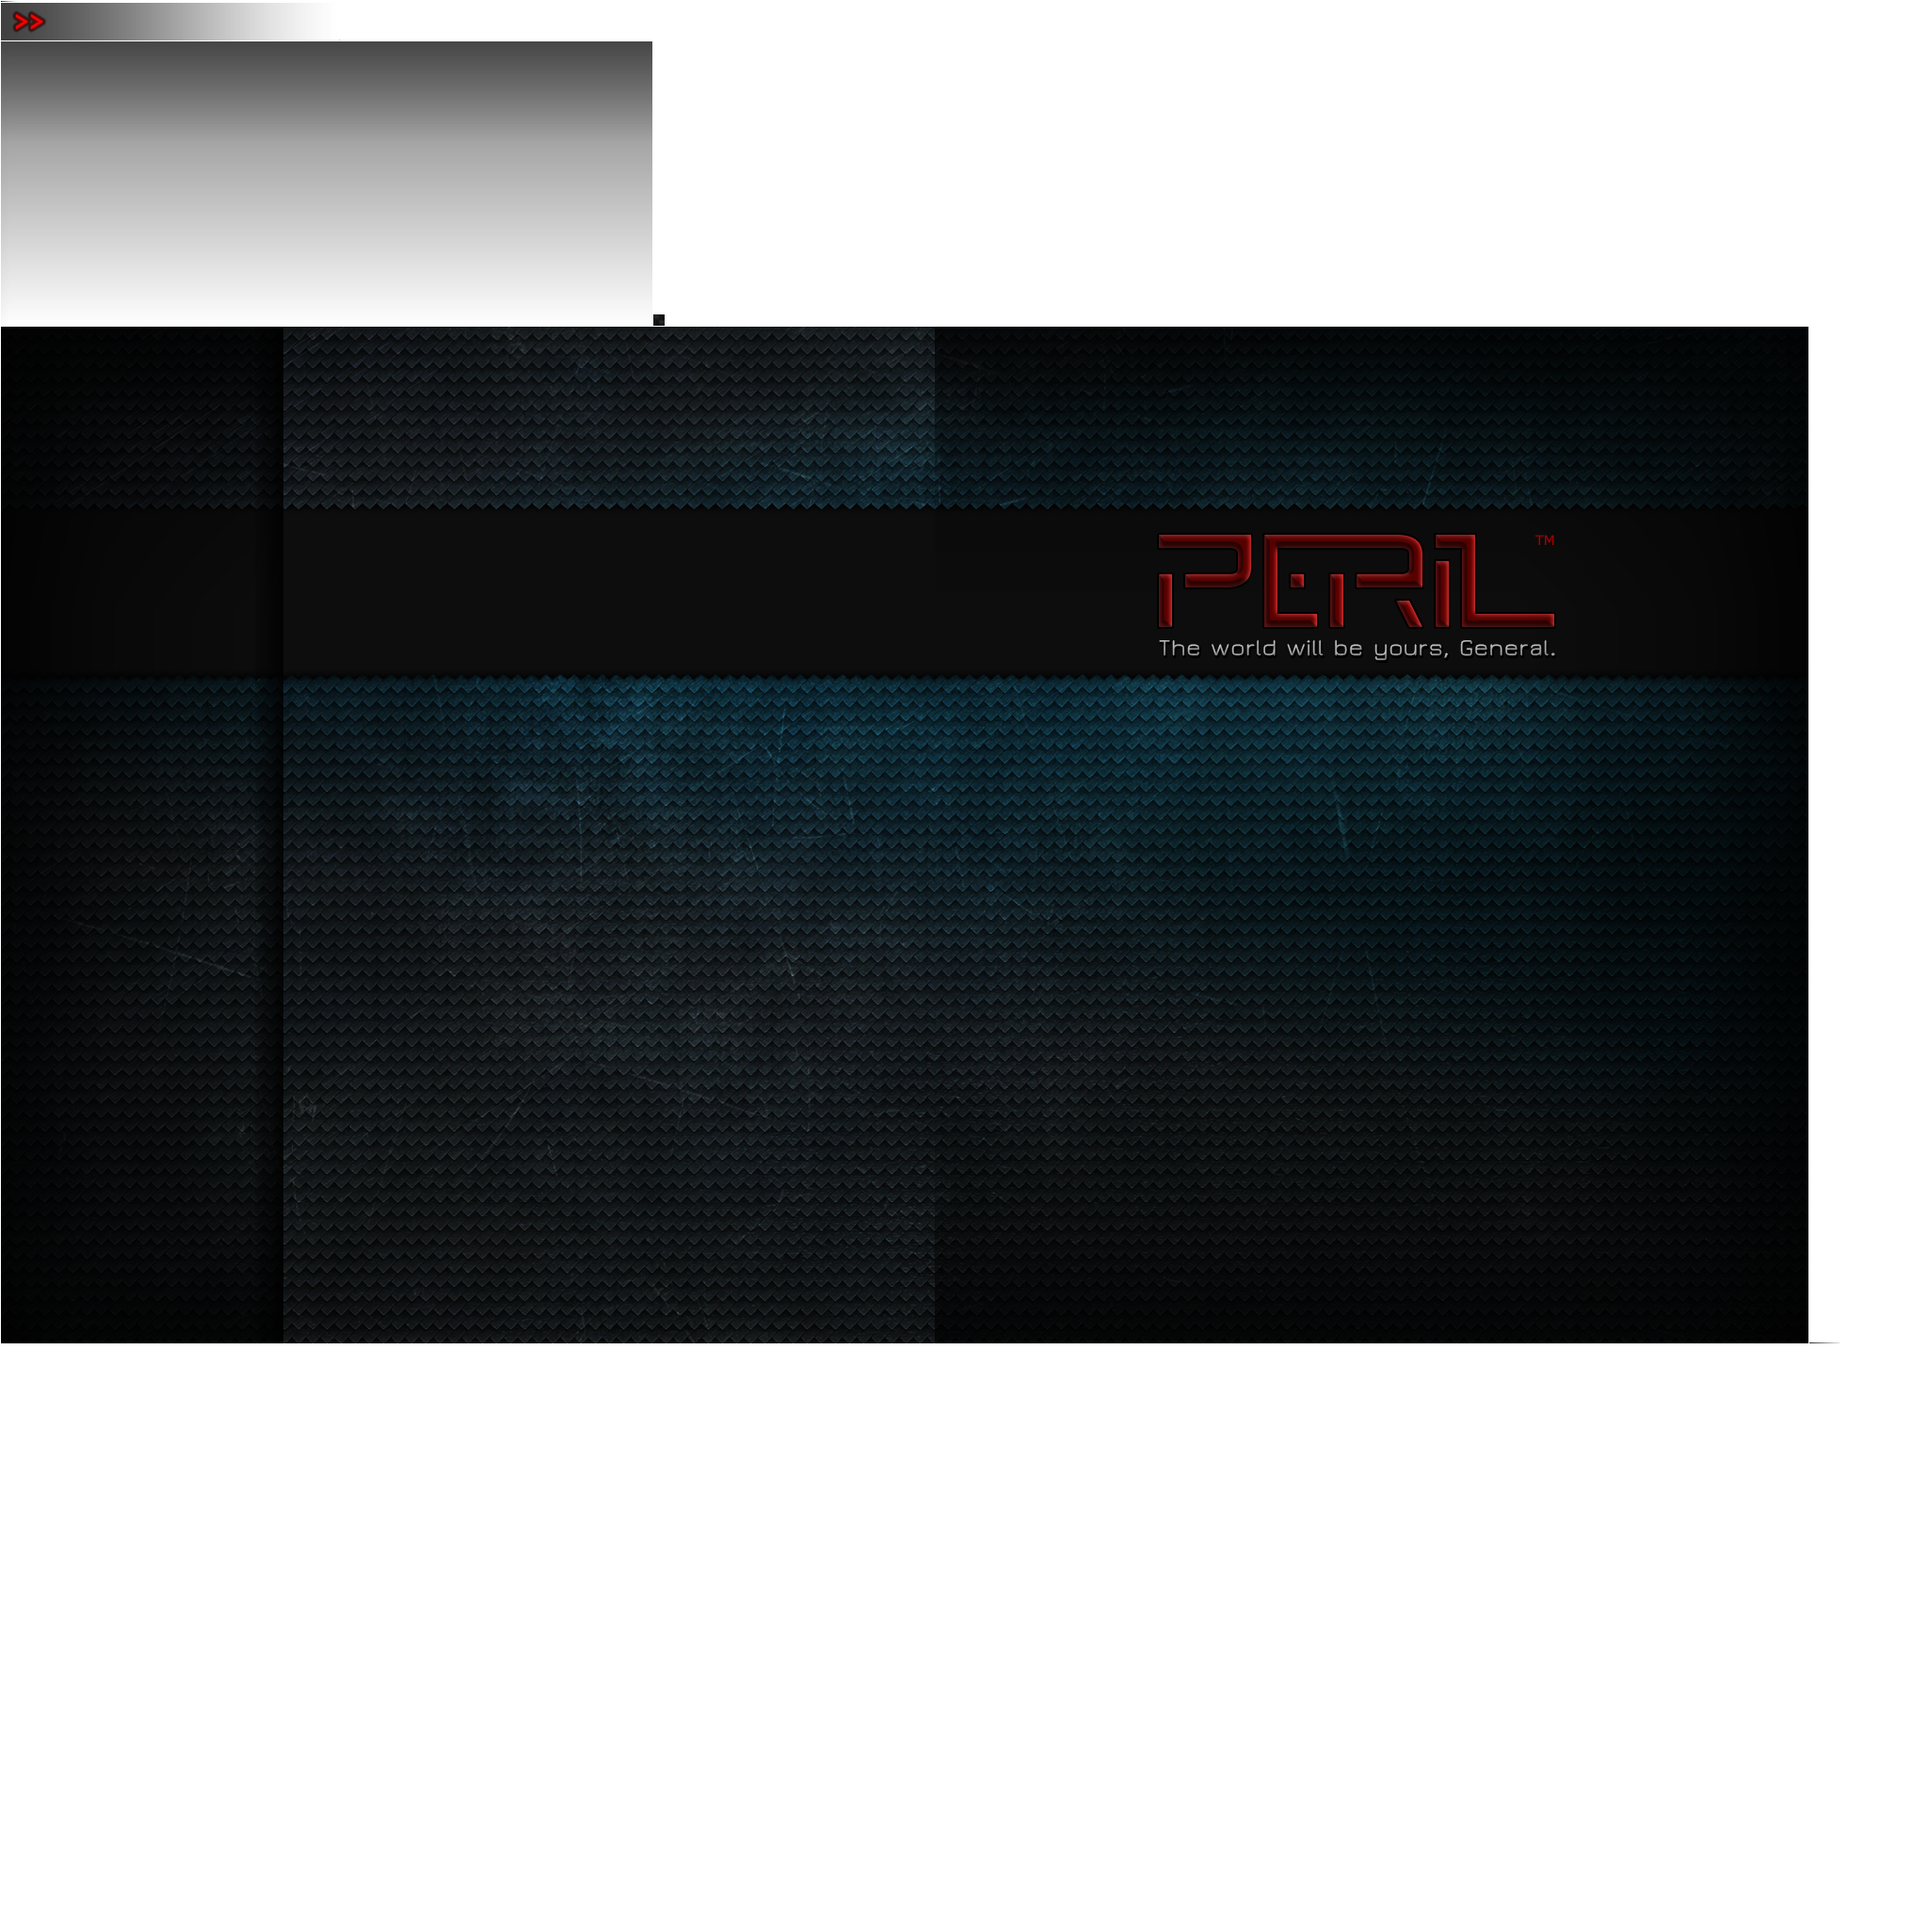
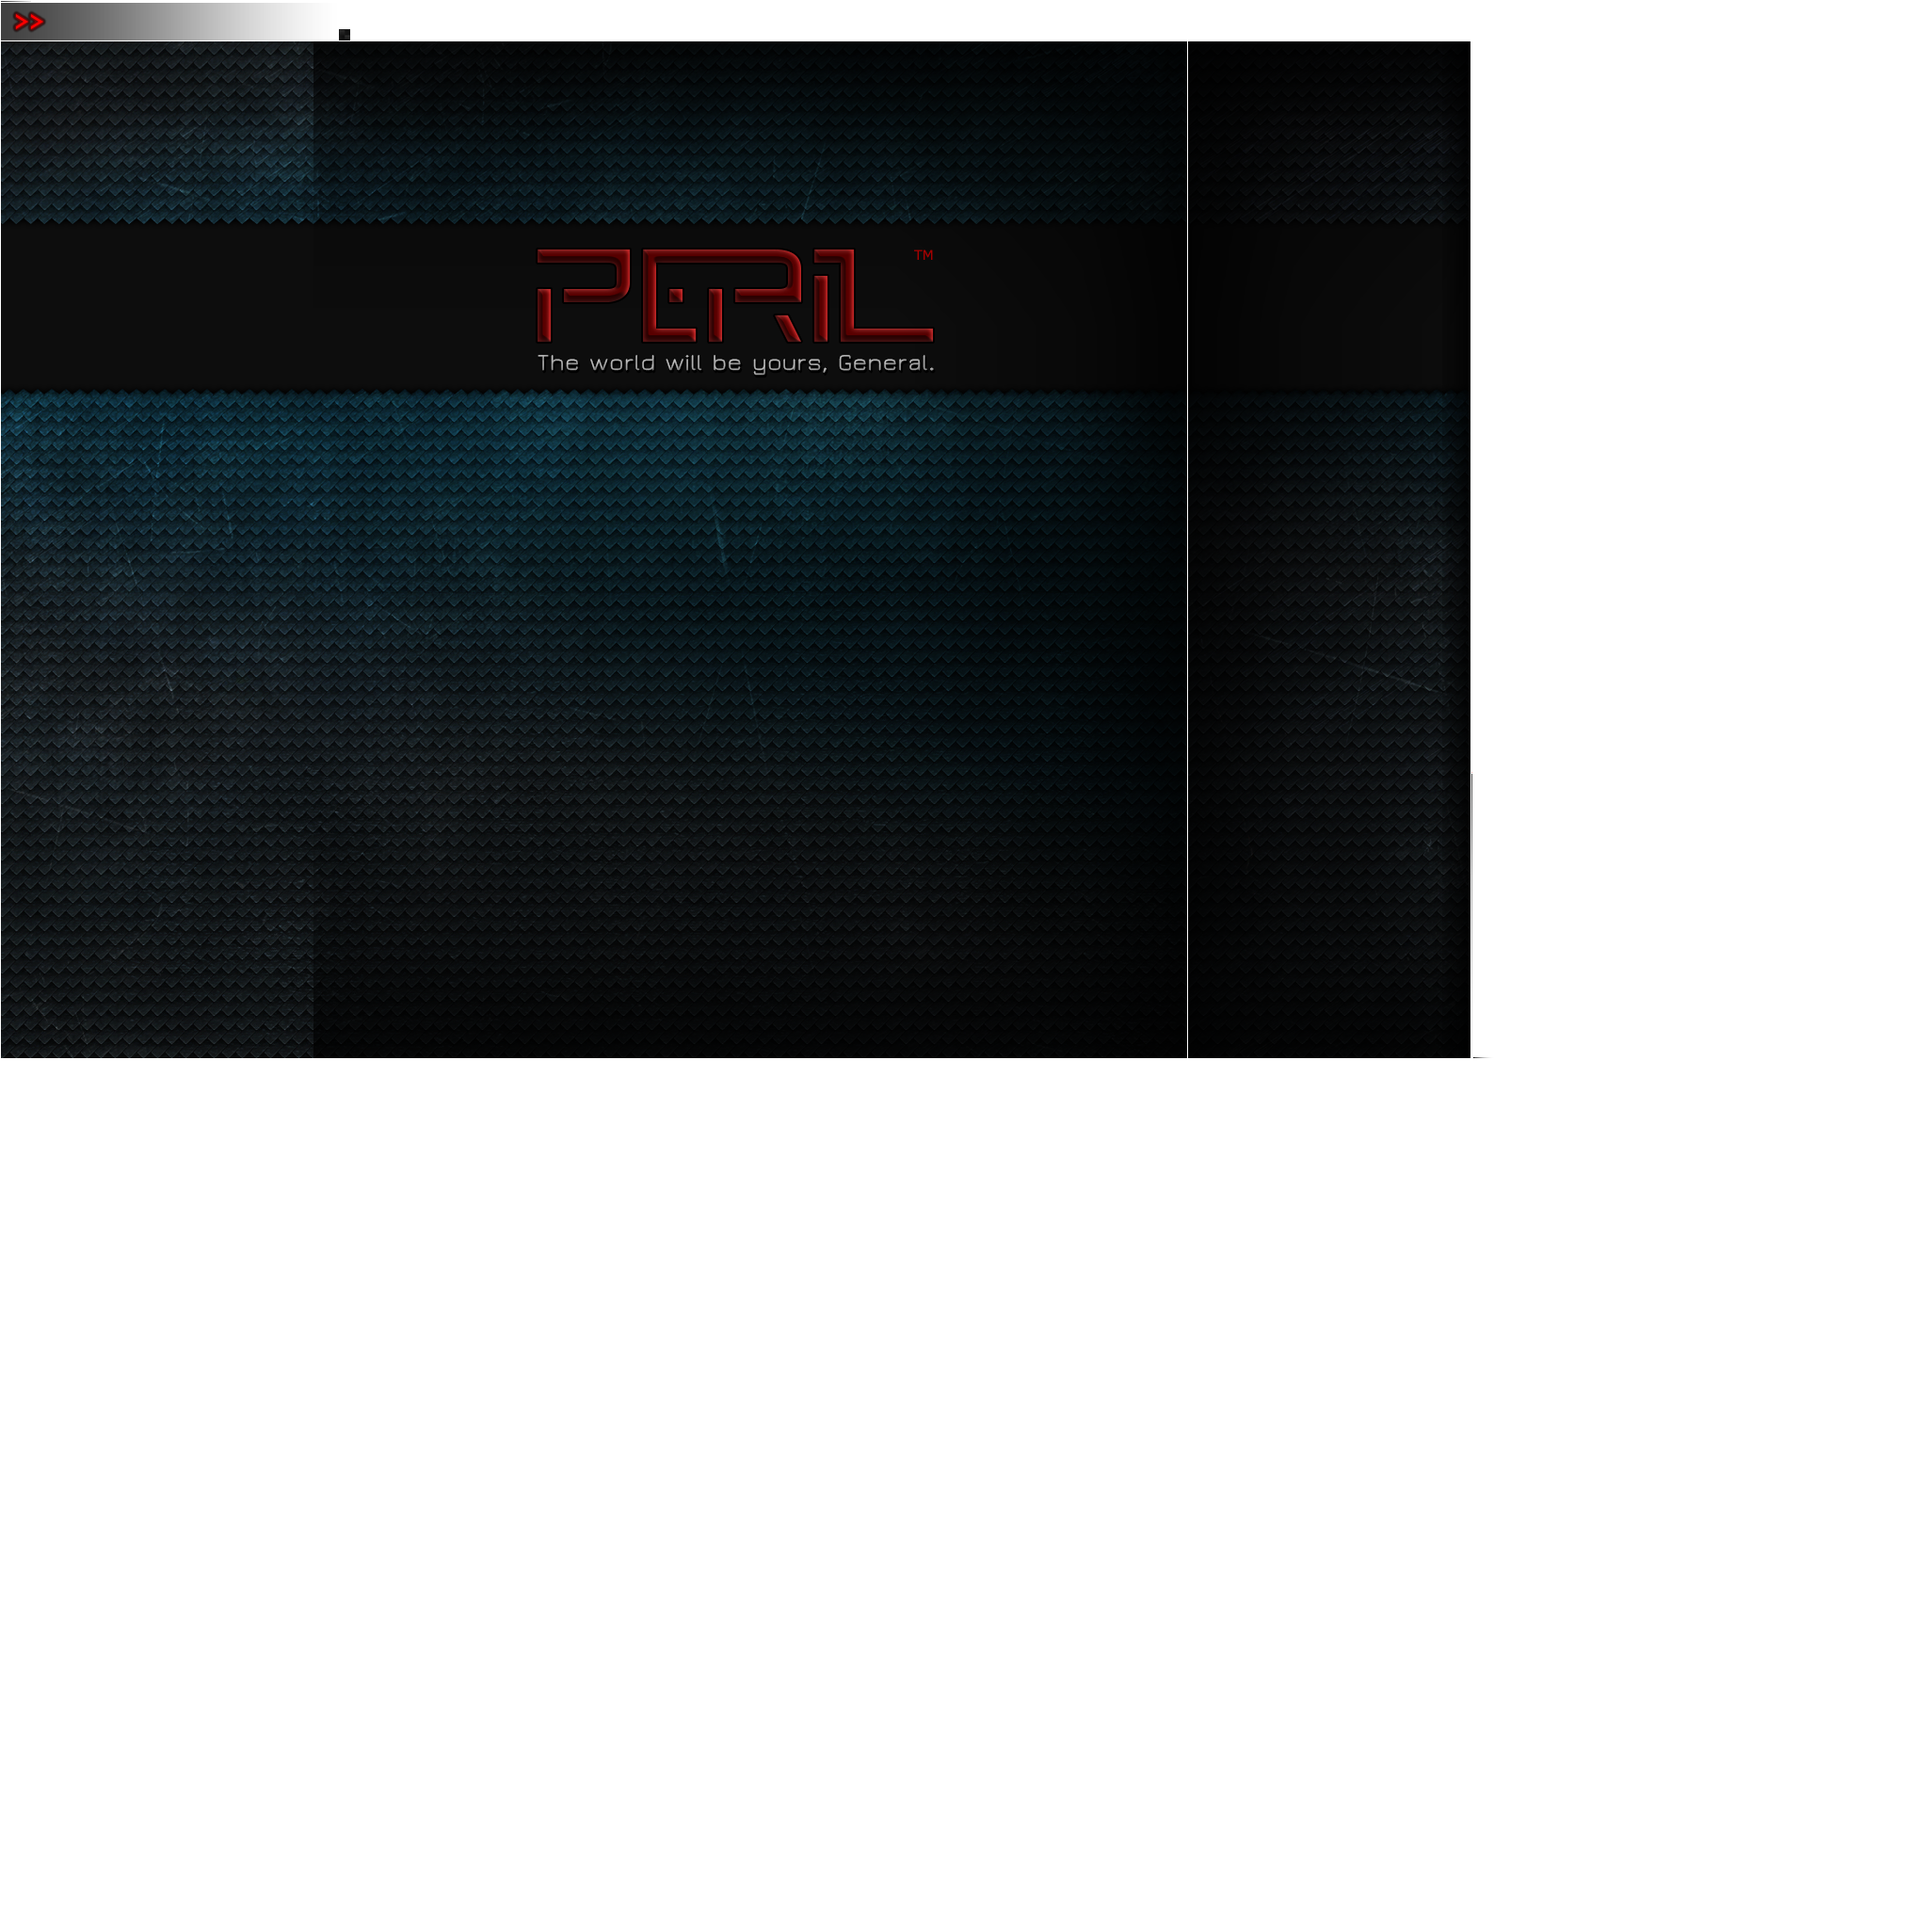
Update menu atlases.
Problem:

- The contracted menu bar is being drawn on top of the background image,
  wasting space in the atlas for the portion of the background image
  that is never drawn because it is perpetually underneath both the
  contracted & expanded menu bar images.

Solution:

- Split the menu background image into 2 sections, backgroundLeft &
  backgroundRight.

- Draw the contracted menu bar in between backgroundLeft &
  backgroundRight, and draw the expanded portion of the expanded menu
  bar on top of backgroundRight.

- Split the menu background image into backgroundLeft and backgroundRight.

- Make the topAndBottomShadow image 1 pixel wide and repeat it to save
  atlas space.

diff --git a/client/src/main/java/com/forerunnergames/peril/client/ui/screens/menus/AbstractMenuScreen.java b/client/src/main/java/com/forerunnergames/peril/client/ui/screens/menus/AbstractMenuScreen.java
@@ -85,7 +85,11 @@ public abstract class AbstractMenuScreen extends InputAdapter implements Screen
     // Layer 0 - screen background
     final Stack rootStack = new Stack ();
     rootStack.setFillParent (true);
-    rootStack.add (widgetFactory.createScreenBackground ());
+    final Table tableL0 = new Table ().top ().left ();
+    tableL0.add (widgetFactory.createScreenBackgroundLeft ());
+    tableL0.add ().expandX ();
+    tableL0.add (widgetFactory.createScreenBackgroundRight ());
+    rootStack.add (tableL0);
 
     // Layer 1 - menu bar & right background shadow
     final Table tableL1 = new Table ().top ().left ();
@@ -97,12 +101,12 @@ public abstract class AbstractMenuScreen extends InputAdapter implements Screen
     // Layer 2 - top & bottom background shadows
     final Table tableL2 = new Table ().top ().left ();
     tableL2.add ().width (300);
-    tableL2.add (widgetFactory.createTopBackgroundShadow ()).fill ();
+    tableL2.add (widgetFactory.createTopBackgroundShadow ()).size (692, 302).fill ();
     tableL2.row ();
-    tableL2.add ().colspan (2).expandY ();
+    tableL2.add ().expandY ();
     tableL2.row ();
     tableL2.add ();
-    tableL2.add (widgetFactory.createBottomBackgroundShadow ()).fill ();
+    tableL2.add (widgetFactory.createBottomBackgroundShadow ()).size (692, 302).fill ();
     rootStack.add (tableL2);
 
     // Layer 3 - title background
@@ -144,12 +148,6 @@ public abstract class AbstractMenuScreen extends InputAdapter implements Screen
     rootStack.add (tableL5);
 
     stage.addActor (rootStack);
-//
-//    interactionTable.debug ();
-//    titleTable.debug ();
-//    menuChoicesTable.debug ();
-//    buttonTable.debug ();
-//    rootStack.debug ();
 
     stage.addListener (new ClickListener ()
     {

diff --git a/client/src/main/java/com/forerunnergames/peril/client/ui/screens/menus/MenuScreenWidgetFactory.java b/client/src/main/java/com/forerunnergames/peril/client/ui/screens/menus/MenuScreenWidgetFactory.java
@@ -42,9 +42,14 @@ public final class MenuScreenWidgetFactory extends WidgetFactory
     rightMenuBarShadowTextureRegion.flip (true, false);
   }
 
-  public Actor createScreenBackground ()
+  public Actor createScreenBackgroundLeft ()
   {
-    return new Image (Assets.menuAtlas.findRegion ("background"));
+    return new Image (Assets.menuAtlas.findRegion ("backgroundLeft"));
+  }
+
+  public Actor createScreenBackgroundRight ()
+  {
+    return new Image (Assets.menuAtlas.findRegion ("backgroundRight"));
   }
 
   public Actor createMenuBar ()
@@ -59,12 +64,12 @@ public final class MenuScreenWidgetFactory extends WidgetFactory
 
   public Actor createTopBackgroundShadow ()
   {
-    return new Image (new SpriteDrawable (topBackgroundShadowSprite));
+    return new Image (new TiledDrawable (topBackgroundShadowSprite));
   }
 
   public Actor createBottomBackgroundShadow ()
   {
-    return new Image (new SpriteDrawable (bottomBackgroundShadowSprite));
+    return new Image (new TiledDrawable (bottomBackgroundShadowSprite));
   }
 
   public Actor createLeftMenuBarShadow ()
